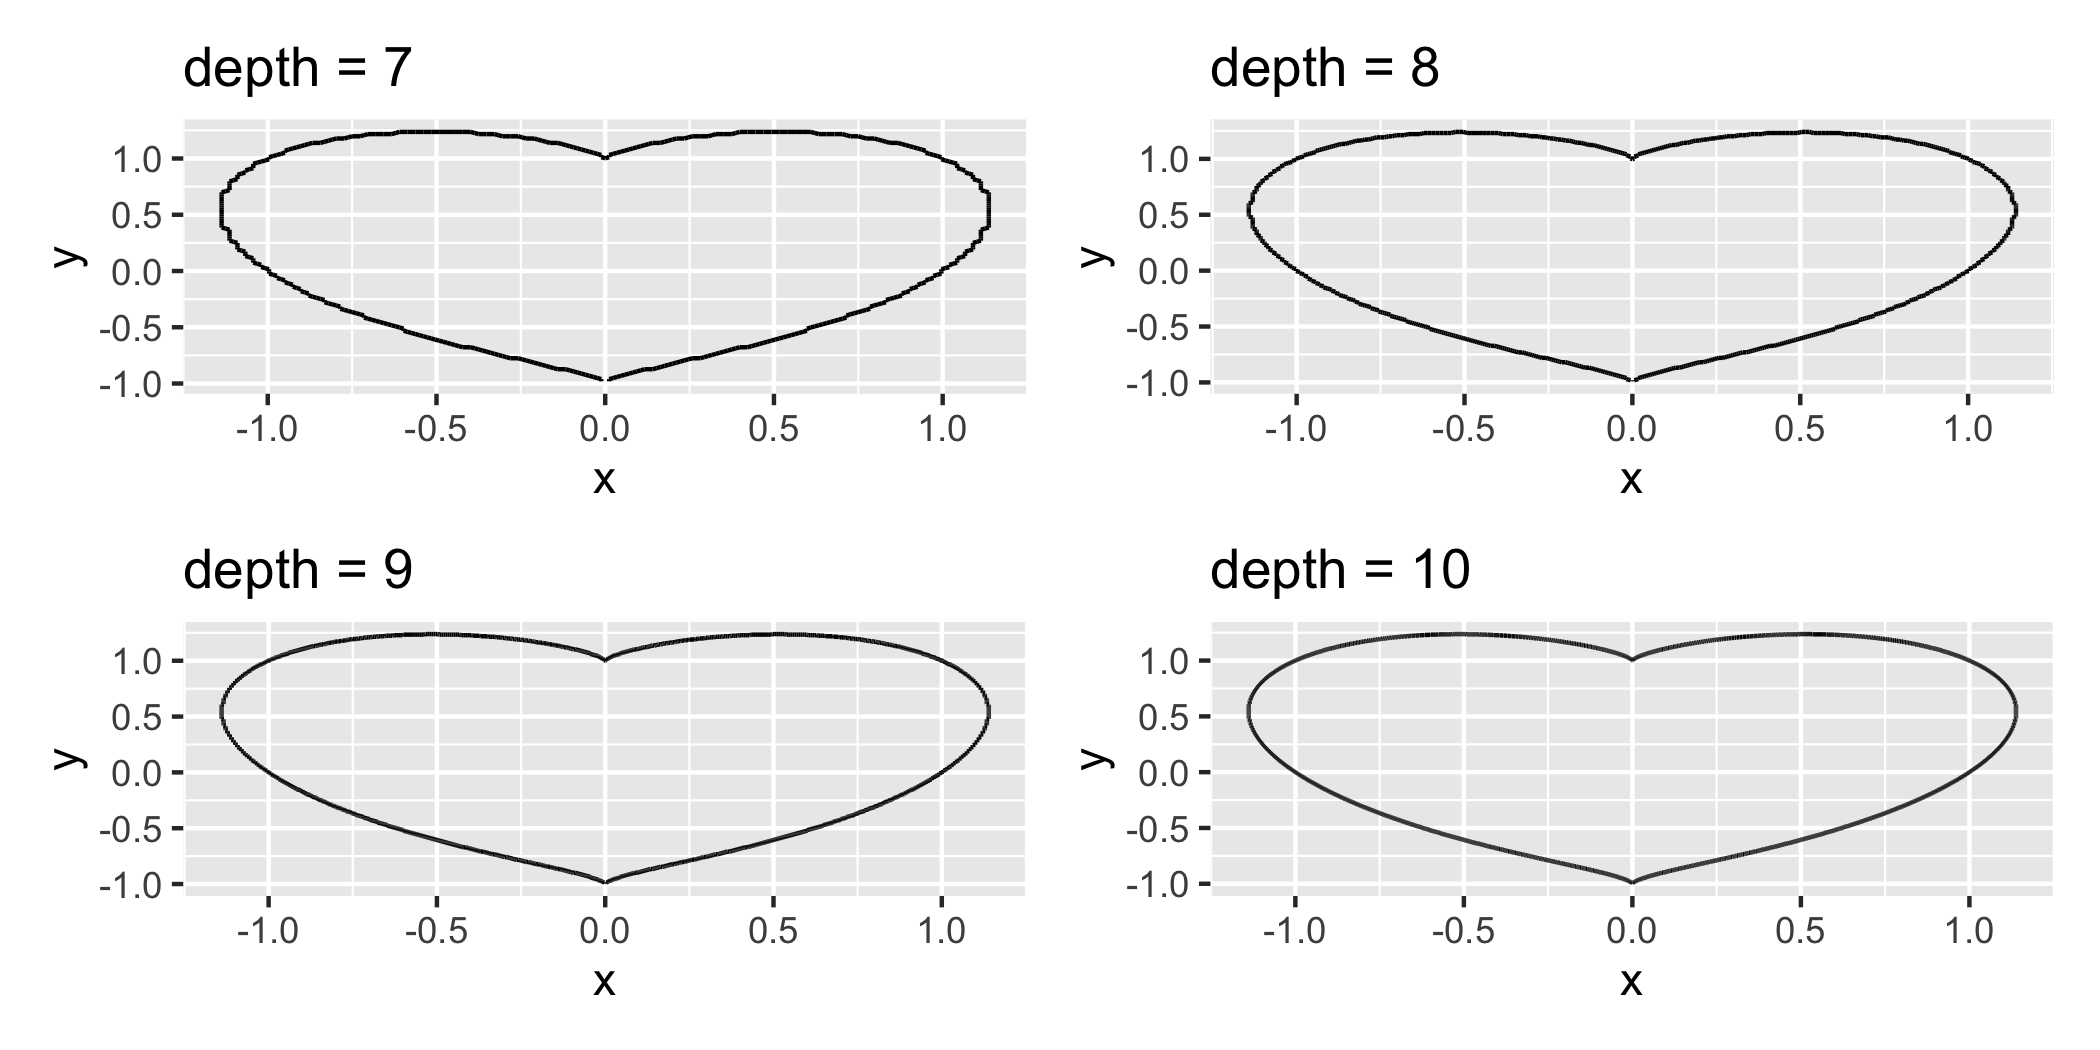
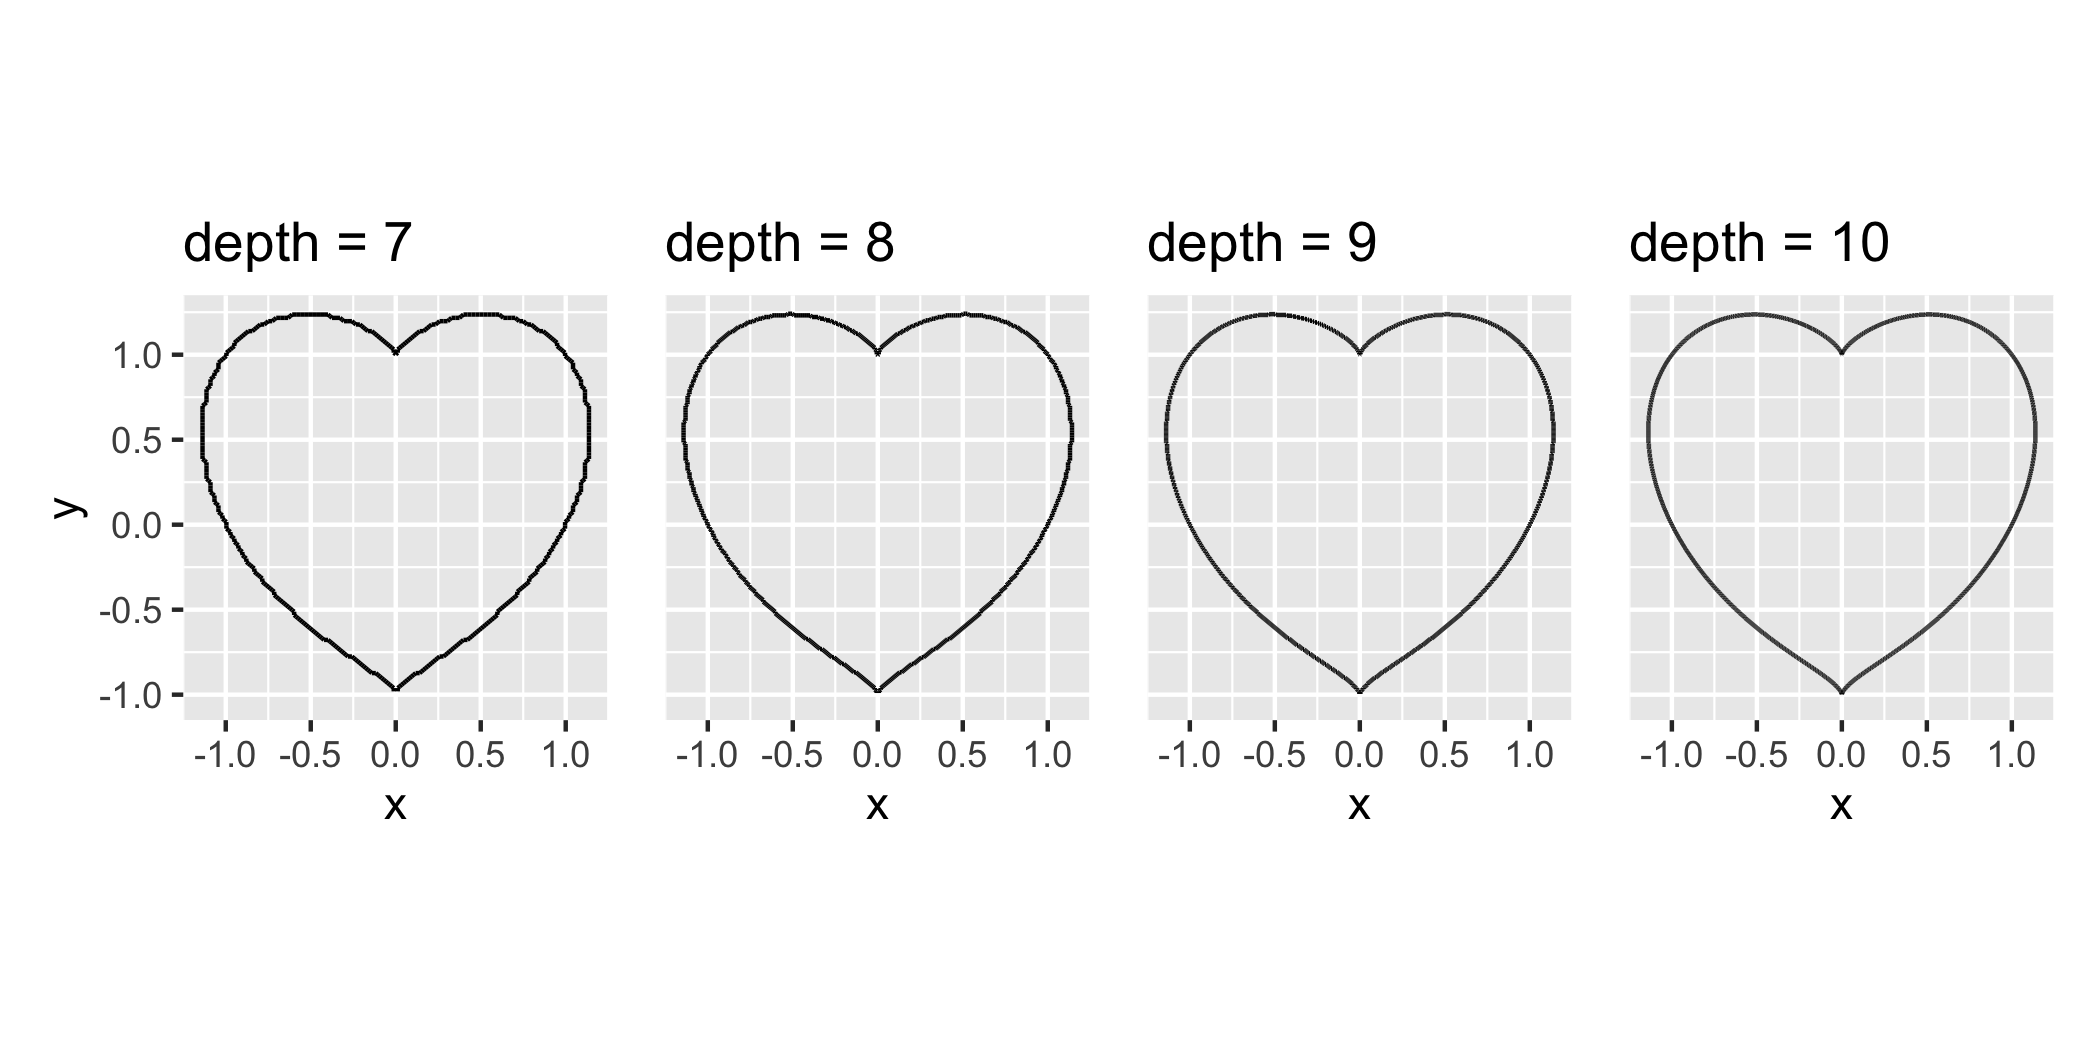
Improve 2 of readme.

diff --git a/README.md b/README.md
@@ -105,26 +105,40 @@ library("patchwork")
 
 heartf <- function(df) with(df,x^6 + 3*x^4*y^2 - 3*x^4 + 3*x^2*y^4 - 6*x^2*y^2 + 3*x^2 + y^6 - 3*y^4 + 3*y^2 - 1 - x^2*y^3)
 
-(biroot_lines(f = heartf, xlim = c(-1.5,1.5),
+biroot_lines(f = heartf, xlim = c(-1.5,1.5),
        ylim = c(-1,1.5), max_depth = 7) |> 
   ggplot(aes(x,y,group = id))+
   geom_line()+
   ggtitle("depth = 7")+
+  coord_equal(xlim = c(-1.25,1.25), ylim = c(-1.15,1.35), expand = FALSE)+
 biroot_lines(f = heartf, xlim = c(-1.5,1.5),
          ylim = c(-1,1.5), max_depth = 8) |> 
   ggplot(aes(x,y,group = id))+
   geom_line()+
-    ggtitle("depth = 8"))/
-(biroot_lines(f = heartf, xlim = c(-1.5,1.5),
+  ggtitle("depth = 8")+
+  theme(axis.text.y = element_blank(), 
+    axis.ticks.y = element_blank(),
+    axis.title.y = element_blank())+
+  coord_equal(xlim = c(-1.25,1.25), ylim = c(-1.15,1.35), expand = FALSE)+
+biroot_lines(f = heartf, xlim = c(-1.5,1.5),
          ylim = c(-1,1.5), max_depth = 9) |> 
   ggplot(aes(x,y,group = id))+
   geom_line()+
   ggtitle("depth = 9")+
+  theme(axis.text.y = element_blank(), 
+    axis.ticks.y = element_blank(),
+    axis.title.y = element_blank())+
+  coord_equal(xlim = c(-1.25,1.25), ylim = c(-1.15,1.35), expand = FALSE)+
 biroot_lines(f = heartf, xlim = c(-1.5,1.5),
          ylim = c(-1,1.5), max_depth = 10) |> 
   ggplot(aes(x,y,group = id))+
   geom_line()+
-  ggtitle("depth = 10"))
+  ggtitle("depth = 10")+
+  theme(axis.text.y = element_blank(), 
+    axis.ticks.y = element_blank(),
+    axis.title.y = element_blank())+
+  coord_equal(xlim = c(-1.25,1.25), ylim = c(-1.15,1.35), expand = FALSE)+
+  plot_layout(ncol = 4)
 ```
 
 <img src="man/figures/README-unnamed-chunk-4-1.png" width="100%" />
